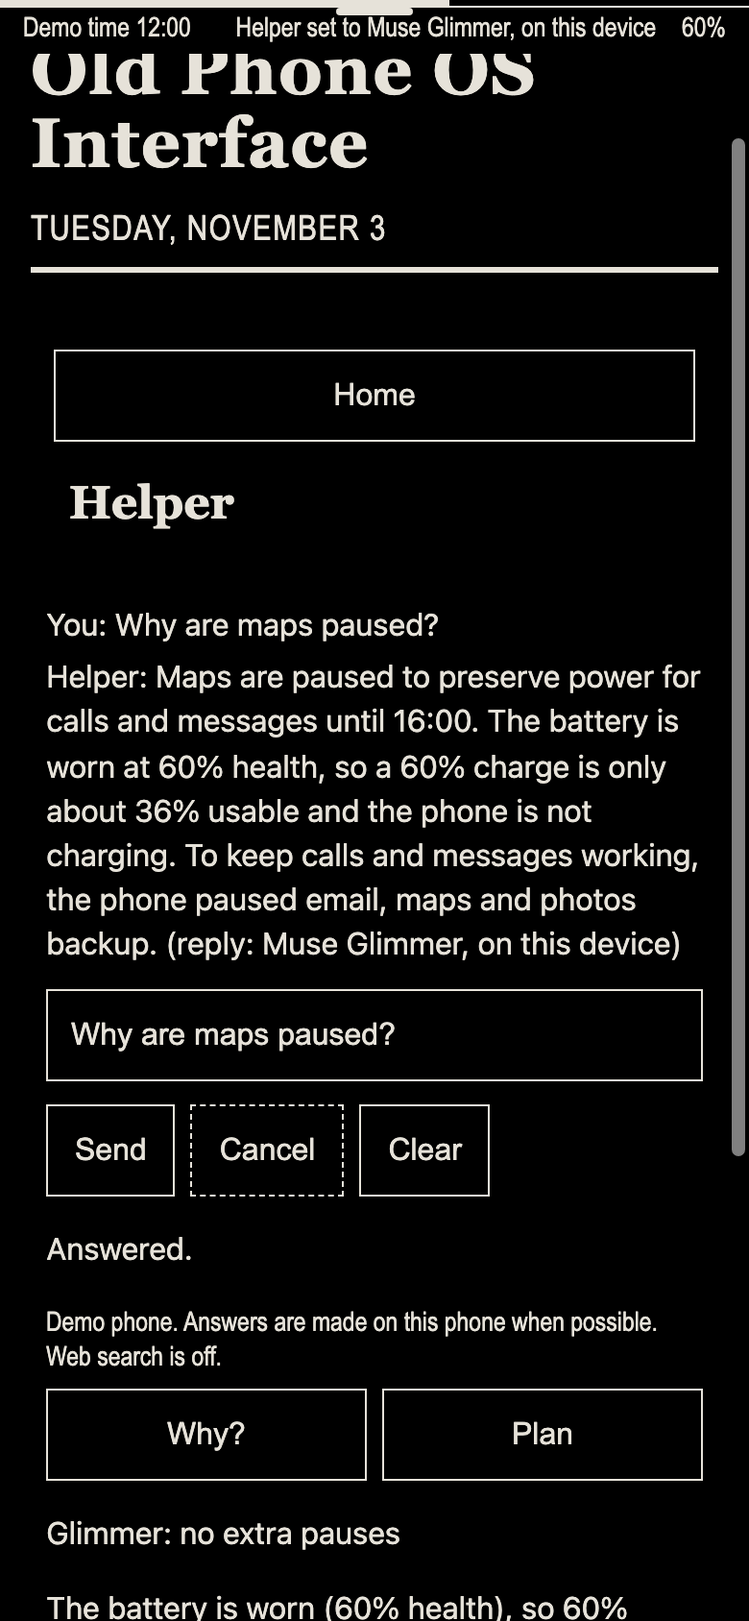
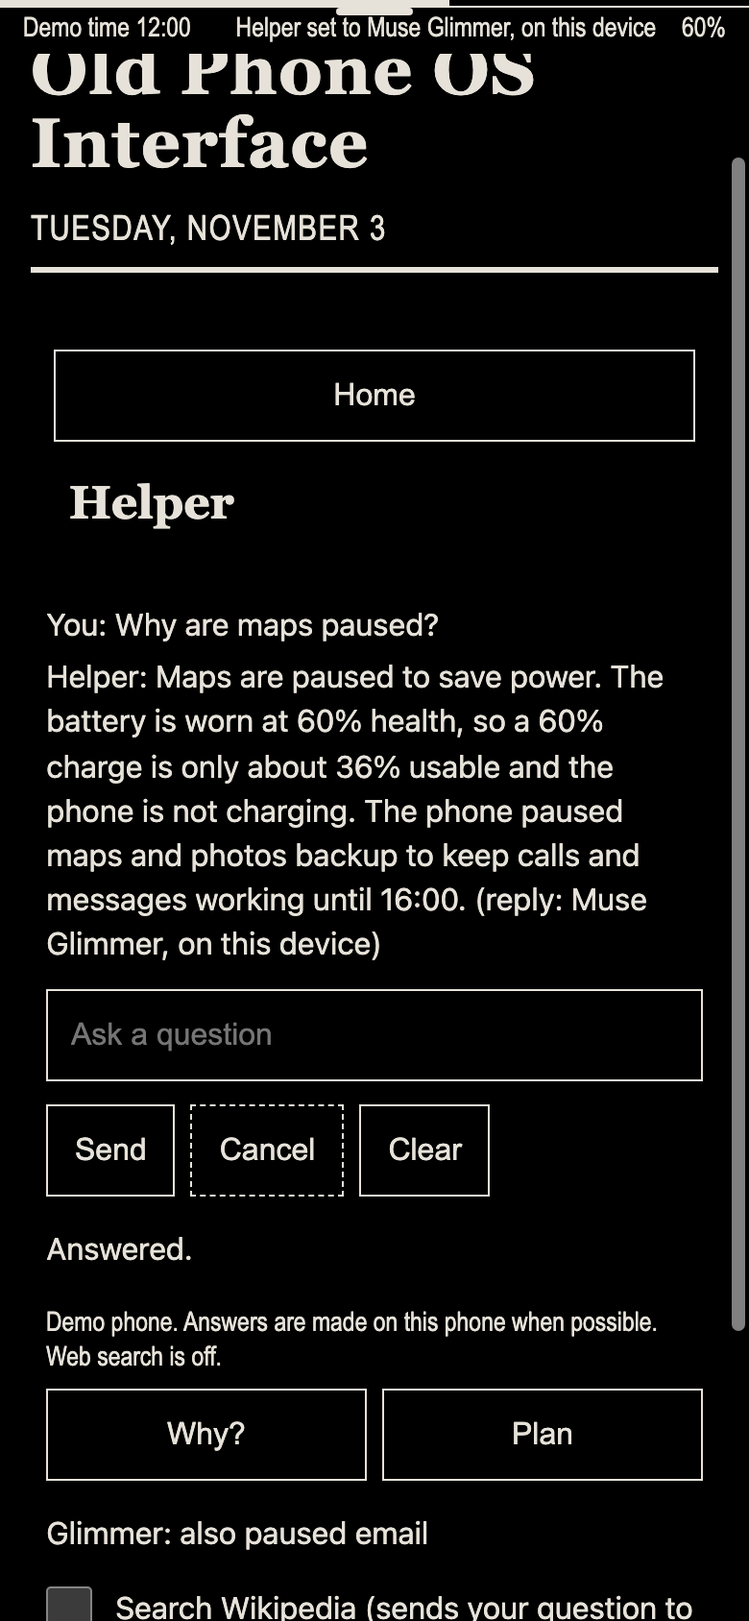
Refresh screenshots and Glimmer timings from the final build
Real captures with Muse Glimmer 30B on the merged code replace the November 3 morning captures, and the README states the newly measured Ask and Why? results. A documentation review also corrects stale statements across the docs.

Provenance: docs-20261103

diff --git a/src/opos/notices.py b/src/opos/notices.py
@@ -59,7 +59,7 @@ THIRD_PARTY = (
     "Python 3 standard library (PSF License); no other Python packages are used",
     "Chromium (BSD-3-Clause and others), shows the phone screen",
     "cage (MIT), the kiosk session",
-    "ModemManager (GPL-2.0-or-later), calls and messages",
+    "ModemManager (GPL-2.0-or-later), packaged for later modem use",
     "NetworkManager (GPL-2.0-or-later)",
     "polkit (LGPL-2.0-or-later) and D-Bus (AFL-2.1 or GPL-2.0-or-later)",
     "OpenRC (BSD-2-Clause) and psmisc (GPL-2.0-or-later)",
@@ -87,7 +87,7 @@ RESTORE_STOCK = "[restore guide: unpublished]"
 
 PRIVACY = (
     "Old Phone OS Interface sends no telemetry or analytics.",
-    "The phone screen and setup pages are served only on the phone's own loopback address, not to the network.",
+    "The phone and setup pages are loopback-only; the public demo server listens on the network.",
     "By default the Helper uses its built-in rules and programs on this phone only.",
     "Old Phone OS Interface's own code sends nothing off the phone unless you opt in: ticking Search Wikipedia for a question, pointing the Helper at a computer you own on your private network, turning on the paid cloud option with your own key, or choosing coding tools to install during setup.",
     "postmarketOS, Chromium and other system software may use the network on their own; that is outside Old Phone OS Interface's control.",

diff --git a/tests/test_ux_u023_docs.py b/tests/test_ux_u023_docs.py
@@ -18,7 +18,7 @@ class TestDuoHelperDocs(unittest.TestCase):
         self.assertLess(health_pos, new_pos)
         self.assertLess(new_pos, push_pos)
         body = text[new_pos + len(new_heading):push_pos].strip()
-        expected = "“The helper starts hidden each time OPOS starts. Open the OPOS page with /?demo=1 in the phone’s browser to show the demo controls. Tap Show helper to show Why?, Plan and Ask; tap Hide helper to hide them. While the helper is hidden, these actions do not contact a model. An answer from the model on your computer takes about 30 to 70 seconds; Cancel stops waiting.”"
+        expected = '“The helper starts hidden each time OPOS starts. Open the OPOS page with /?demo=1 in the phone’s browser to show the demo controls. Tap Show helper to show Why?, Plan and Ask; tap Hide helper to hide them. While the helper is hidden, these actions do not contact a model. Cancel stops waiting.”\n\nFor the measured desktop response times, see the [README capture table](../README.md#muse-glimmer-answering). These are not on-phone measurements.'
         self.assertEqual(body, expected)
         dot = chr(46)
         back = chr(92)

diff --git a/tests/test_pmos_easy_docs.py b/tests/test_pmos_easy_docs.py
@@ -9,7 +9,10 @@ class TestEasyDocs(unittest.TestCase):
         n = [x for x in self.text.splitlines() if x.strip()]
         self.assertEqual(n[:2], ["<!-- SPDX-License-Identifier: GPL-3.0-or-later -->", "# Easy setup on postmarketOS"])
     def test_reboot_warning(self):
-        self.assertIn("## Reboot warning\n\nthe phone will reboot several times during setup\n\n", self.text)
+        script = (Path(__file__).resolve().parents[1] / "packaging/pmos/easy/confirm-reboot.sh").read_text()
+        warning = "WARNING: the phone will reboot several times during setup. Do not unplug it or press buttons until it says Done."
+        self.assertIn(warning, script)  # the doc quotes what the script prints
+        self.assertIn("## Reboot warning\n\n> " + warning + "\n\n", self.text)
         self.assertIn("`confirm-reboot.sh` prints the warning above.", self.text)
         self.assertIn("do not implement or verify a multi-reboot setup sequence", self.text)
         self.assertIn("Do not unplug the phone during setup.", self.text)

diff --git a/README.md b/README.md
@@ -20,12 +20,12 @@ Demo walkthrough:
 1. Open `http://127.0.0.1:8765/?demo=1` for simulator controls.
 2. The demo starts at 60% battery with 60% battery health, so about 36% is usable. OPOS calls a battery worn below 80% health, so this one is worn, but its worn-battery reserve stays off: the reserve engages only below 50% health, and the demo cannot change health (the reserve is shown in the [simulations](#simulation-results)). To last until the demo's 16:00 goal it pauses maps and photos backup; calls, messages and email stay on, and with the helper shown, Muse Glimmer's background advisor may pause email too.
 3. Tap the thin bar at the top to open battery details and click Start simulation to watch it drain.
-4. Click Show helper and try Why?, Plan or type a question such as "Why are maps paused?" and Ask. Muse Glimmer uses the phone's facts when it replies; in the captures below, Ask received Glimmer replies while both Why? attempts reached the helper deadline and fell back to the rules. With no model running, Why answers from the rules, Plan keeps a fixed order and Ask says no model is running.
+4. Click Show helper and try Why?, Plan or type a question such as "Why are maps paused?" and Ask. Muse Glimmer uses the phone's facts when it replies; in the final-tree captures below, all four Ask requests and all four Why? requests received Glimmer replies within the 115-second helper deadline. With no model running, Why answers from the rules, Plan keeps a fixed order and Ask says no model is running.
 5. Drag the Battery slider below about 25% (under 15% usable). Ask rests to save power, and calls and messages still work.
 
 <p>
   <img src="docs/assets/screen-lock.png" width="240" alt="Desktop simulation lock screen at 12:00 with 60% battery, a worn-battery notice saying 2 tasks paused for 4 PM, and Unlock and Call buttons.">
-  <img src="docs/assets/screen-home.png" width="240" alt="Desktop simulation home screen with Calls, Messages and Email, and maps and photos backup paused to save power.">
+  <img src="docs/assets/screen-home.png" width="240" alt="Desktop simulation Home with Phone, Messages, Helper, Settings and All apps; maps and photos backup are paused to save power.">
   <img src="docs/assets/screen-shade.png" width="240" alt="Desktop simulation battery panel at 60% with maps and photos backup paused; both expanded reasons say battery rules paused them to help the battery last until 4 PM.">
 </p>
 
@@ -35,20 +35,34 @@ Screenshots of the desktop simulation (battery, calls and messages are simulated
 
 On November 3, 2026, the OPOS desktop demo (`?demo=1`) ran on Louis's MacBook Pro with LM Studio serving `muse-glimmer-30b` (Meta Muse Glimmer 30B). The simulation was at noon, with 60% battery at 60% health, a 16:00 goal and the helper shown. On-phone inference is untested.
 
-Asked "Why are maps paused?", Muse Glimmer answered in **56.7 seconds in the dark capture** and **42.4 seconds in the light capture**. The screen labels each answer "reply: Muse Glimmer, on this device"; here, "this device" is the MacBook Pro running the desktop demo.
+Asked "Why are maps paused?", Muse Glimmer answered in **51.699 and 53.077 seconds in dark appearance** and **42.914 and 44.782 seconds in light appearance**. These are four individual measurements from activating the UI control to the displayed reply, including request and rendering time; they are not pure inference times or on-phone measurements. The screen labels each answer "reply: Muse Glimmer, on this device"; here, "this device" is the owner's MacBook Pro running the desktop demo.
 
-The dark capture's answer, verbatim:
+The first dark capture's answer, verbatim:
 
-> Maps are paused to preserve power for calls and messages until 16:00. The battery is worn at 60% health, so a 60% charge is only about 36% usable and the phone is not charging. To keep calls and messages working, the phone paused email, maps and photos backup.
+> Maps are paused to save power. The battery is worn at 60% health, so a 60% charge is only about 36% usable and the phone is not charging. The phone paused maps and photos backup to keep calls and messages working until 16:00.
 
-Glimmer's background advisor had itself paused email; the captured battery state records its reason as "Muse Glimmer paused this to save power for calls and messages." The answer reflects that captured state. The dark screenshot does not show the battery panel, and its helper status line still reads "Glimmer: no extra pauses" despite that state; the light screenshot reads "Glimmer: suggested extra pauses."
+The first dark question was sent while maps and photos backup were paused. By the time the reply appeared, Glimmer's background advisor had also paused email. The visible status line in both selected Ask screenshots reads "Glimmer: also paused email" and matches the captured current task state; the answer describes the facts supplied when the question was sent.
 
 <picture>
   <source media="(prefers-color-scheme: dark)" srcset="docs/assets/glimmer-ask-dark.png">
-  <img src="docs/assets/glimmer-ask.png" alt="OPOS desktop simulation showing Muse Glimmer's answer to Why are maps paused?, with 60% battery, a 16:00 goal and the reply label Muse Glimmer, on this device.">
+  <img src="docs/assets/glimmer-ask.png" alt="OPOS desktop simulation showing a Muse Glimmer reply to Why are maps paused?, labeled reply: Muse Glimmer, on this device, with Glimmer: also paused email.">
 </picture>
 
-These are real Ask captures in dark and light appearance. The **Why? button fell back to the rules answer both times** because it reached OPOS's 115-second helper deadline before Glimmer returned visible text. A fix is in progress.
+The revised **Why? button returned Glimmer answers in 66.549 and 60.696 seconds in dark appearance, and 63.853 and 78.651 seconds in light appearance**. All four completed before OPOS's 115-second helper deadline; none used the rules fallback. These measurements replace the earlier pre-fix Why? deadline observations for this final source.
+
+<picture>
+  <source media="(prefers-color-scheme: dark)" srcset="docs/assets/glimmer-why-dark.png">
+  <img src="docs/assets/glimmer-why.png" alt="The real Why? reply in the OPOS desktop simulation, labeled Muse Glimmer, on this device, explaining the paused tasks.">
+</picture>
+
+| Appearance | Action | Run 1, seconds | Run 2, seconds | Result |
+|---|---|---:|---:|---|
+| Dark | Ask | 51.699 | 53.077 | Muse Glimmer; no fallback |
+| Dark | Why? | 66.549 | 60.696 | Muse Glimmer; no fallback |
+| Light | Ask | 42.914 | 44.782 | Muse Glimmer; no fallback |
+| Light | Why? | 63.853 | 78.651 | Muse Glimmer; no fallback |
+
+The screenshots and demo video use the first chronological run; both runs of each action and appearance are reported. The captured runtime is the staged Git tree `e753c23bba4f3898a09ae4e1f6f0137e255fde68` (a tree object, not a commit). Full replies, timestamps, task states and unedited PNGs are retained in the owner's `final-capture/capture.json` and `capture-report.md` handoff. Battery, calls and messages remain simulated; Glimmer runs on the owner's computer.
 
 ## Try it online
 
@@ -82,7 +96,7 @@ Glimmer may only pause additional non-essential tasks. It cannot allow anything 
 | Route | Purpose | Requirements and scope |
 |---|---|---|
 | Rules floor | Deterministic decisions and fallback text | No model or provider account. Simulations are not measured battery savings. |
-| Muse Glimmer 30B | Routing advice, Why, Plan and Ask | Your own server serving the model id `muse-glimmer-30b` (for example LM Studio) at `http://127.0.0.1:1234/v1`. If port 1234 is taken, set `OPOS_GLIMMER_URL=http://127.0.0.1:<port>/v1` to point OPOS at LM Studio's actual port. On a 64 GB M5 Pro MacBook Pro running Muse Glimmer 30B (Q4_K_M) in LM Studio, answers took about 30-60 seconds in November 2026 tests, most of it hidden reasoning. |
+| Muse Glimmer 30B | Routing advice, Why, Plan and Ask | Your own server serving the model id `muse-glimmer-30b` (for example LM Studio) at `http://127.0.0.1:1234/v1`. If port 1234 is taken, set `OPOS_GLIMMER_URL=http://127.0.0.1:<port>/v1` to point OPOS at LM Studio's actual port. The November 3 final-tree Ask and Why? UI response times are reported individually in [Muse Glimmer answering](#muse-glimmer-answering); these desktop measurements do not establish phone inference speed. |
 | Llama 3.2 1B/3B | Optional phone-local answers via server at loopback port 8080 | About 1.5/4 GB free memory; phone speed is unmeasured; weights are not shipped. |
 | User-owned LAN server | Optional Glimmer endpoint selected with OPOS_LAN_URL | Private-address validation; opt-in. OPOS does not expose a server for you. |
 | Wikipedia | Optional snippets for one question | Unchecked-by-default Search Wikipedia option sends that question to Wikipedia. |
@@ -136,7 +150,7 @@ OPOS_REPO_URL=https://github.com/louiscalata/old-phone-os OPOS_REF=main sh boots
 
 ## postmarketOS packages and QEMU
 
-On November 3, 2026, an aarch64 image built from this tree booted in QEMU 9.1.2 (TCG, OpenRC) to the OPOS lock screen about 70 seconds after start, and Unlock reached Home. It used the packaged tinydm Pixman renderer hook without a manual renderer override; the same image without the hook stayed on the console with a GLES2/GBM failure. See [docs/pmos.md](docs/pmos.md) for the recorded run, toolchain and local-source staging.
+As recorded in [docs/pmos.md](docs/pmos.md), on November 3, 2026 a postmarketOS aarch64 image booted in QEMU 9.1.2 (TCG, OpenRC) to the OPOS lock screen, and Unlock reached Home. It used the packaged tinydm Pixman renderer hook without a manual renderer override; the same image without the hook stayed on the console with a GLES2/GBM failure. See [docs/pmos.md](docs/pmos.md) for the recorded run, toolchain and local-source staging.
 
 This later virtual-machine boot result does not close the November 1 integrator report's **integration NOT READY** status: integration acceptance remains outstanding. The earlier private-baseline QEMU run described in [docs/provenance.md](docs/provenance.md#validation-scope) used a manual, QA-only Pixman renderer override. The November 3 image had no model server or route to one; on-phone inference and physical-phone behavior remain untested for this source.
 
@@ -159,7 +173,7 @@ Optional repository checks use `python3 guard/check.py`; see [guard/RULES.md](gu
 
 **Focused package inputs; performance gains remain unmeasured.** See [docs/lean.md](docs/lean.md).
 
-Demo is simulation only, and so is the postmarketOS kiosk: both use the simulated battery and modem. No physical phone testing is claimed and native on-phone inference is not tested. On a 64 GB M5 Pro MacBook Pro running Muse Glimmer 30B (Q4_K_M) in LM Studio, answers took about 30-60 seconds in November 2026 tests, most of it hidden reasoning. Ask rests when the mode is Critical and less than 15% of the charge is usable. Spark Open is off by default and requires user credentials. Wikipedia search is opt-in.
+Demo is simulation only, and so is the postmarketOS kiosk: both use the simulated battery and modem. No physical phone testing is claimed and native on-phone inference is not tested. The November 3 final-tree Ask and Why? UI response times are reported individually in [Muse Glimmer answering](#muse-glimmer-answering); these desktop measurements do not establish phone inference speed. Ask rests when the mode is Critical and less than 15% of the charge is usable. Spark Open is off by default and requires user credentials. Wikipedia search is opt-in.
 
 The [Windows installer remains untested at runtime](ROADMAP.md#simulated-or-not-yet-verified), and [Surface Duo work is paused](docs/duo-usb-install.md); those paths are documented separately.
 

diff --git a/docs/public-demo.md b/docs/public-demo.md
@@ -10,7 +10,8 @@ HTTP server's reverse-DNS startup lookup.
 
 Hackathon prototype. This public demo simulates the battery, calls and messages;
 it is not a phone operating system and has not run on a physical phone.
-Try the live demo at https://opos-demo-production.up.railway.app.
+The public demo is live at https://opos-demo-production.up.railway.app.
+Muse Glimmer is off there; Why, Plan and Ask use deterministic battery rules.
 
 ## Run locally
 
@@ -21,10 +22,11 @@ export PYTHONPATH=src
 OPOS_PUBLIC_HOSTS=localhost:8080 PORT=8080 python3 -m opos.public_demo
 ```
 
-Open `http://localhost:8080/?demo=1`. Unlock, change the battery slider, then
-pull down the top battery bar. At the initial 60%, Undo on maps restores a soft
-pause; low-battery and heat floors still protect calls and messages. Why, Plan
-and Ask answer from the current rules and explicitly identify the public mode.
+Open `http://localhost:8080/?demo=1` (it starts unlocked). Change the battery
+slider, then open the top battery bar. At the initial 60%, Undo on maps turns
+the soft-paused task back on; low-battery and heat floors still protect calls
+and messages. Why, Plan and Ask answer from the current rules and explicitly
+identify the public mode.
 Settings such as theme are browser preferences, never host preference files.
 
 ## Railway configuration
@@ -40,10 +42,9 @@ Railway's [current builder reference](https://docs.railway.com/config-as-code/re
 lists Railpack and Dockerfile for new services. It also marks railway.json as a
 legacy configuration mechanism: if the service uses the newer infrastructure
 flow, set the same start command, one replica and `/healthz` health-check path
-in that service's configuration. These files have not been built or deployed
-on Railway during this task.
+in that service's configuration.
 
-Set these service variables before a later, separately authorized deployment:
+Configure the service variables as follows:
 
 ```text
 OPOS_PUBLIC_HOSTS=opos-demo-production.up.railway.app,healthcheck.railway.app
@@ -123,8 +124,9 @@ against distributed traffic. Platform-level traffic controls remain useful.
 
 ## What the public handler can do
 
-Only `GET /`, `GET /?demo=1`, `GET /api/state`, `GET /healthz` and `POST /api`
-are routed. The API action allowlist covers battery/temperature, simulated
+Only `GET /`, `GET /?demo=1`, `GET /api/state`, `GET /healthz`, `GET /favicon.ico`
+and `POST /api` are routed; HEAD follows the GET routes without a response body.
+The API action allowlist covers battery/temperature, simulated
 calls/messages, open thread, helper visibility, simulation ticks, charging,
 goal, Undo, foreground task and the three deterministic helper answers.
 Every other route, method or action returns 404 after the Host/Origin and
@@ -152,10 +154,11 @@ do not expand its model/network host allowlist.
 ## Verification
 
 ```sh
-mkdir -p /private/tmp/opos-demo-tests
-TMPDIR=/private/tmp/opos-demo-tests PYTHONDONTWRITEBYTECODE=1 PYTHONPATH=src python3 -B -m unittest tests.test_public_demo tests.test_web tests.test_web_security tests.test_demo_day tests.test_lock_story tests.test_panel_decision
-TMPDIR=/private/tmp/opos-demo-tests PYTHONDONTWRITEBYTECODE=1 PYTHONPATH=src python3 -B -m unittest discover -s tests -t .
-python3 guard/check.py
+TMPDIR=$(mktemp -d)
+export TMPDIR
+PYTHONDONTWRITEBYTECODE=1 PYTHONPATH=src python3 -B -m unittest tests.test_public_demo tests.test_web tests.test_web_security tests.test_demo_day tests.test_lock_story tests.test_panel_decision
+PYTHONDONTWRITEBYTECODE=1 PYTHONPATH=src python3 -B -m unittest discover -s tests -t .
+python3 -B guard/check.py
 ```
 
 `PublicBoundary` uses real TCP sockets. `PublicProtocolWithoutSockets` repeats
@@ -165,7 +168,7 @@ connection admission or browser behavior. The outbound-denial test patches
 urllib/http.client entry points and model/host functions to fail if called,
 then exercises every allowed action with hostile model configuration present.
 
-### Working-copy verification, 3 November 2026
+### Earlier working-copy verification, 3 November 2026
 
 The earlier demo implementation's focused run passed **60 tests**, covering the public handler through
 an in-memory transport, the client script, source-archive consistency, original
@@ -189,10 +192,12 @@ The source/deploy model-and-host scan passed (104 files, zero errors).
 `python3 guard/check.py` reported one problem: the existing base commit
 `4aa9b7c3` has no Provenance trailer logged with a Meta model in
 `docs/provenance.md`. No provenance was invented and no history was changed.
-Native socket serving, browser rendering, the Python 3.12 container build and
-Railway deployment still need verification in an environment that supports them.
+These restricted-workspace runs did not verify native socket serving, browser
+rendering or the Python 3.12 container build. The live Railway demo is a separate
+deployment result; it does not turn these earlier test failures into passes or
+establish a fresh container build from the final tree.
 
-### Security follow-up, 3 November 2026
+### Earlier security follow-up, 3 November 2026
 
 Before the fixes, the two new regression methods produced three assertion
 failures through the in-memory HTTP transport: a forged left-most forwarding
@@ -204,7 +209,7 @@ it does not claim an actual browser run.
 The requested run of `tests.test_public_demo`, `tests.test_web` and
 `tests.test_web_security` ran **103 tests: 40 passed, 63 errored**. Every error
 was `PermissionError: [Errno 1] Operation not permitted` at `socket.bind`.
-These native socket tests remain blocked, not passed or silently skipped.
+These native socket tests were blocked in that run, not passed or silently skipped.
 The separate `PublicProtocolWithoutSockets`, `PublicBindWithoutDNS` and
 `PublicClientScript` run passed **24 tests**.
 
@@ -213,4 +218,4 @@ has no Provenance trailer logged with a Meta model in `docs/provenance.md`.
 The new `publicdemo-20261103` row records the demo's declared Codex authorship
 and disabled public model routes; it does not repair that historical trailer.
 The guard also reported that the overlap check was skipped because `guard.json`
-is absent. See [.pr/public-demo.md](../.pr/public-demo.md) for commands and logs.
+is absent.

diff --git a/docs/provenance.md b/docs/provenance.md
@@ -16,9 +16,9 @@ Detailed historical prompts and outputs are preserved in a private evidence ledg
 | panelfix-20261103 | The second follow-up commit, November 3, 2026: fixes for findings from a senior review panel of the public repository (Claude Opus 5.5, Codex gpt-6.1-sol and Grok 4.7). One final decision now decides what is paused (owner Undo and in-use apply before the heat, critical-battery and worn-battery floors), the goal budget is shared across tasks, the screens and the simulated drain read the same decision, installed services keep the model-route settings, the optional AI-tools installer checks a pinned digest, Why and Ask send questions to the Muse Glimmer 30B route or another local route only when it is configured or verified, and the docs, pyproject.toml and a CI workflow were added or corrected. Written by Claude Opus 5.5 agents; Codex gpt-6-astra checked the last decision-lane items; Grok 4.7 reviewed the merged change; Claude Opus 5.5 merged and checked it. No Meta model wrote code in this commit. |
 | ci-20261103 | Written by Codex gpt-6-astra, with a bounded read-only review by Codex gpt-6-luna. Linux CI portability fixes keep the Meta Muse Glimmer helper tests running on Linux CI: deterministic helper fixtures, isolated installer service probes, firewall output and permission checks, current UI assertions, browser launch diagnostics, explicit test dependencies and full checkout history. No Meta model wrote code in this change. Hosted Linux verification remains pending. |
 | publicdemo-20261103 | Public simulation-only demo written by Codex gpt-6-astra. It serves the same phone UI; Muse Glimmer 30B and every other model route are disabled in public mode. A follow-up by Claude Opus 5.5 regenerates the pmOS runtime source digest. |
-| helper-glimmer-capture-20261103 | Written by Codex gpt-6-astra for the Meta Muse Glimmer 30B helper path: factual pause/status credit, state refresh while the demo is stopped, a smaller grounded Why? prompt with Ask's token budget, and fake-route regressions preserving the 115-second deadline and rejection of cut-off reasoning. Based on the November 3 end-to-end capture of public main bd0e465. No Meta model wrote this fix; revised-source hardware latency has not been measured. A follow-up by Claude Opus 5.5 updates the two boot-load tests for fetchState() and regenerates the pmOS runtime source digest. |
+| helper-glimmer-capture-20261103 | Written by Codex gpt-6-astra for the Meta Muse Glimmer 30B helper path: factual pause/status credit, state refresh while the demo is stopped, a smaller grounded Why? prompt with Ask's token budget, and fake-route regressions preserving the 115-second deadline and rejection of cut-off reasoning. Based on the November 3 end-to-end capture of public main bd0e465. No Meta model wrote this fix. Revised-source UI response times were unmeasured at that stage; the final desktop recapture is recorded in docs-20261103 below. A follow-up by Claude Opus 5.5 updates the two boot-load tests for fetchState() and regenerates the pmOS runtime source digest. |
 | qa-20261103 | Written by Codex gpt-6-astra from an outside QA pass, with regression assertion updates by Codex gpt-6-luna. Fixes public demo QA findings in the phone UI that the Meta Muse Glimmer 30B helper uses, with regression tests. No Meta model wrote this change. |
-| docs-20261103 | README edits written by Codex gpt-6-astra from an external review, with capture integration by Codex. The README vignette was written by Meta Muse Spark 1.3 (via Gumloop) and is reproduced verbatim. The quoted helper answer was written by Meta Muse Glimmer 30B, served as `muse-glimmer-30b` by LM Studio on Louis's MacBook Pro in the desktop simulation. Real November 3 Ask captures: 56.7 s (dark, quoted verbatim) and 42.4 s (light), labeled "reply: Muse Glimmer, on this device". Glimmer's background advisor had paused email. Both Why? attempts fell back to the rules answer at OPOS's 115 s helper deadline before visible Glimmer text; a fix is in progress. On-phone inference is untested. |
+| docs-20261103 | README edits written by Codex gpt-6-astra from an external review, with capture integration and final-tree recapture by Codex. The README vignette was written by Meta Muse Spark 1.3 (via Gumloop) and is reproduced verbatim. The quoted helper answer was written by Meta Muse Glimmer 30B, served as `muse-glimmer-30b` by LM Studio on the owner's Mac in the desktop simulation. Final November 3 Ask UI response times: 51.699 and 53.077 s (dark), 42.914 and 44.782 s (light). Why? returned Glimmer answers in 66.549 and 60.696 s (dark), 63.853 and 78.651 s (light), all inside the 115 s helper deadline; none fell back. Run 1 of each action/theme supplies the screenshots; all runs are retained. Current status: "Glimmer: also paused email". The first dark Ask reflects question-time facts before that additional pause. Input tree `e753c23bba4f3898a09ae4e1f6f0137e255fde68` is a tree object, not a commit. On-phone inference is untested. |
 
 The snapshot preserves existing copyright and license notices, editable application/web sources, installation/deployment/build scripts and tests. Development orchestration archives are not required runtime or build inputs and remain private.
 

diff --git a/ROADMAP.md b/ROADMAP.md
@@ -9,8 +9,12 @@ and what comes next. Plans are intentions, not promises.
 - Battery governor: Normal, Saver and Critical modes from battery level, battery health,
   temperature and a daily goal; calls, messages and alarms stay on in every mode.
 - Helper with Meta Muse Glimmer 30B on your own computer: supports Why?, Plan and Ask using plain
-  facts about the phone. Captured Ask replies succeeded; both captured Why? attempts fell back to
-  rules at 115 s. A background advisor may pause extra non-essential tasks, never fewer.
+  facts about the phone. In the final November 3 desktop capture, all four Ask and all four Why?
+  requests returned Muse Glimmer within 115 s, with no fallback. Ask took 51.699/53.077 s in dark
+  appearance and 42.914/44.782 s in light; Why? took 66.549/60.696 s in dark and 63.853/78.651 s
+  in light. These are UI response times, not pure inference or on-phone measurements. See the
+  [README capture table](README.md#muse-glimmer-answering). A background advisor may pause extra
+  non-essential tasks, never fewer.
 - Offline floor: every decision and fallback answer works with no model running.
 - Desktop demo with a simulated battery, calls and texts (`?demo=1` simulator controls).
 - Setup wizard, per-user installer for macOS and Linux, and postmarketOS packages
@@ -24,10 +28,6 @@ and what comes next. Plans are intentions, not promises.
 
 ## Simulated or not yet verified
 
-- The November 3 Glimmer capture follow-up reduces the Why? prompt and keeps helper pause
-  attribution current while the demo is stopped. Fake-route regressions cover the changes;
-  Why? latency on the revised source still needs a new LM Studio capture. See
-  [.pr/helper-glimmer-capture.md](.pr/helper-glimmer-capture.md).
 - The desktop demo and the postmarketOS kiosk both simulate the battery, calls and texts
   (`DrainSim` and `ScreenModem` in `src/opos/web.py`). The ModemManager adapter
   (`src/opos/mm_modem.py`) is not connected to them, and the sysfs battery reader
@@ -40,27 +40,25 @@ and what comes next. Plans are intentions, not promises.
 
 ## Public browser demo
 
+The public demo is live at [opos-demo-production.up.railway.app](https://opos-demo-production.up.railway.app).
 The separate `opos.public_demo` entry point wraps the existing phone page in a
-Jaryo landing and isolates each visitor in bounded, expiring memory. Public
-helpers use only battery rules; setup, model routes and host operations are
-unreachable. Railway configuration and [operating notes](docs/public-demo.md)
-are in this working copy. This work has not been committed, pushed or deployed.
-The README URL remains a placeholder. Native socket/browser and Railway
-verification must be recorded separately from handler-level checks.
-The security follow-up uses the trusted proxy's right-most forwarded address
-for rate limits and preserves sessions on cross-site landing visits. Both
-regressions pass through the in-memory HTTP transport; native socket tests
-remain blocked by workspace permissions. See [.pr/public-demo.md](.pr/public-demo.md)
-for the current test and guard results.
+Jaryo landing and isolates each visitor in bounded, expiring memory. Muse Glimmer
+and every other model route are off there: public helpers use only battery rules.
+Setup and host operations are unreachable. Railway configuration and
+[operating notes](docs/public-demo.md) are included in this tree. This is a browser
+simulation; the live deployment does not establish physical-phone use.
 
-The outside-QA follow-up `qa-20261103` fixes the public Settings layout, battery
-history, app status, rules-helper answers, simulator controls and link-checker
-responses. See [.pr/qa-demo.md](.pr/qa-demo.md) for the unstaged changes, regression
-results and remaining browser review; this does not establish physical-phone use.
+The public server uses the trusted proxy's right-most forwarded address for rate
+limits and preserves sessions on cross-site landing visits. The final source also
+includes the public Settings layout, battery history, app status, rules-helper,
+simulator-control and link-checker fixes. Handler-level checks, native browser
+checks and deployment observations remain separate evidence.
 
 ## Next
 
-Linux CI portability fixes are under local verification; hosted Python 3.11/3.13 results are still pending. See [.pr/ci-linux.md](.pr/ci-linux.md) for the failure analysis and verification limits.
+Linux CI portability fixes were verified on a Debian VM. Hosted CI results for
+the Python 3.11/3.13 matrix in `.github/workflows/tests.yml` are still pending;
+the Debian verification does not establish a hosted CI pass.
 
 1. **A real phone.** Boot the postmarketOS image on a supported device, run setup, and record
    battery life against the stock system with the same daily routine.

diff --git a/NEW-WORK.md b/NEW-WORK.md
@@ -7,7 +7,7 @@ The application, setup flow, web interface, rule router, model clients, installa
 
 ## Contributions
 
-Recorded source contributions include Meta Muse Glimmer, Muse Spark, Muse Spark Open and Muse Wonder, together with implementation and repairs by Codex and Claude and hand-written Grok Bot changes. Codex integrated and verified the setup, UI, package-state and public-export corrections through November 2. On November 3 Claude coordinated the final fixes and reviews, and Muse Glimmer drafted the current README. The project does not claim that Meta models wrote every line. The submitter is responsible for the submission.
+Recorded source contributions include Meta Muse Glimmer, Muse Spark, Muse Spark Open and Muse Wonder, together with implementation and repairs by Codex and Claude and hand-written Grok Bot changes. Codex integrated and verified the setup, UI, package-state and public-export corrections through November 2. On November 3 Claude coordinated the final fixes and reviews. Meta Muse Spark 1.3 wrote the current README vignette, reproduced verbatim; Muse Glimmer wrote the quoted helper answer, and Codex edited the README and integrated the final capture. The project does not claim that Meta models wrote every line. The submitter is responsible for the submission.
 
 Claude's recorded implementation/disclosure contributions are distinct from a later independent UI review whose separate proposal was not adopted merely to create model-written code. Jev pre/post analysis covered one historical Spark task and the November 3 review, drafting and fix tasks; the November 1-2 UI, package, native QA and export checks are not represented as Jev-supervised. See [WORK-BY-MODEL.md](WORK-BY-MODEL.md) and the concise [public provenance](docs/provenance.md).
 
@@ -15,6 +15,6 @@ Claude's recorded implementation/disclosure contributions are distinct from a la
 
 Source authorship and runtime routing are separate. The runtime clients target Meta models, with a deterministic offline floor. Development orchestration tools are not runtime dependencies. An endpoint or model-name label does not independently attest the weights a server runs.
 
-Accepted private-baseline evidence includes actual desktop UI checks, one desktop Glimmer response, package-state checks and a postmarketOS QEMU kiosk using a documented QA-only software renderer. On November 3, an aarch64 image built from this tree reached the lock screen and Home in postmarketOS QEMU with the packaged tinydm renderer hook and no manual override; later changes have not been re-booted. The corrected public tree needs its own verification; earlier private counts and captures are not silently relabeled as public-tree acceptance. Native model inference, physical modem behavior and Windows runtime acceptance remain unverified.
+Accepted private-baseline evidence includes actual desktop UI checks, a desktop Glimmer response, package-state checks and a postmarketOS QEMU kiosk using a documented QA-only software renderer. The separate final November 3 desktop capture records eight UI response times: all four Ask and all four Why? requests returned Muse Glimmer within 115 s, with no fallback. See the [README capture table](README.md#muse-glimmer-answering) and [public provenance](docs/provenance.md) for the timings and captured source identity. These are desktop simulation results, not phone measurements. On November 3, an aarch64 image built from this tree reached the lock screen and Home in postmarketOS QEMU with the packaged tinydm renderer hook and no manual override; later changes have not been re-booted. Each later source change needs its own affected checks; earlier private counts and captures are not silently relabeled as public-tree acceptance. On-phone model inference, physical modem behavior and Windows runtime acceptance remain unverified.
 
 Detailed historical prompts and outputs are preserved privately and have not been rewritten. This source snapshot omits those private records while retaining the editable runtime, build, installation, deployment, test, guard and license sources needed to inspect and modify OPOS.

diff --git a/docs/notices-verification.md b/docs/notices-verification.md
@@ -8,7 +8,7 @@
 | Claim | Source evidence | Scope |
 |---|---|---|
 | Old Phone OS Interface sends no telemetry or analytics. | Network clients are explicit in `src/opos/muse.py`, `src/opos/assist.py`, `src/opos/setup/selftest.py`, `src/opos/setup/apply.py` and `src/opos/aitools/installer.py`. `src/opos/aitools/sessions.py` uses local stderr diagnostics; `src/opos/notices.py` imports no network library. | Static code inspection; not a packet capture of third-party programs. |
-| The phone screen and setup pages are served only on the phone's own loopback address, not to the network. | `src/opos/secure.py` validates bind addresses; constructors in `src/opos/web.py` and `src/opos/setup/server.py` apply it. | The OPOS HTTP services, not arbitrary system software. |
+| The phone and setup pages are loopback-only; the public demo server listens on the network. | `src/opos/secure.py` validates loopback bind addresses; constructors in `src/opos/web.py` and `src/opos/setup/server.py` apply it. `src/opos/public_demo.py` uses its own server constructor with a `0.0.0.0` bind and exact allowed-host checks. | The desktop/kiosk and setup services are loopback-only; the separate public simulation is network-accessible. This does not describe arbitrary system software. |
 | By default the Helper uses its built-in rules and programs on this phone only. | Default route construction in `src/opos/muse.py` and `src/opos/assist.py` uses loopback; `src/opos/router.py` is deterministic. LAN and cloud require explicit configuration. | A configured remote deployment is a separate opt-in. |
 | Old Phone OS Interface's own code sends nothing off the phone unless you opt in: ticking Search Wikipedia for a question, pointing the Helper at a computer you own on your private network, turning on the paid cloud option with your own key, or choosing coding tools to install during setup. | `src/opos/assist.py` gates Wikipedia per question and validates LAN routes; `src/opos/muse.py` gates the hosted route; `src/opos/setup/config.py`, `src/opos/setup/apply.py` and `src/opos/aitools/installer.py` gate selected tool installation. | Applies to OPOS code; installed third-party tools have their own behavior. |
 | postmarketOS, Chromium and other system software may use the network on their own; that is outside Old Phone OS Interface's control. | The kiosk starts Chromium; the platform packages include independently maintained services. | No claim that a static OPOS scan controls the full operating system. |
@@ -24,7 +24,7 @@
 
 - SOURCE_URL is the plainly displayed project address `github.com/louiscalata/old-phone-os`, consistent with the prospective public repository in README. Displaying this text makes no network request. The release owner must verify the actual published destination and corresponding-source archive before distributing binaries.
 - CONTACT refers readers to the project repository without inventing an email, issue-channel configuration or promised support service.
-- RESTORE_STOCK remains unpublished because no verified stock-restore procedure is supplied. This source gives no flashing or recovery instructions.
+- RESTORE_STOCK remains unpublished because no verified stock-restore procedure is supplied. [The historical Duo notes](duo-usb-install.md) contain rootfs, recovery and sparse-image flashing instructions, and `packaging/pmos/easy/easy-install.sh --flash` calls `pmbootstrap flasher flash_rootfs`; those paths remain unverified for this corrected source and are not a verified stock-restore procedure.
 - VERSION remains synchronized with `packaging/pmos/opos/APKBUILD`; a missing generated build identity is honestly shown as unpublished. Each release should record its actual source and package identities.
 - THIRD_PARTY follows platform dependencies. `THIRD_PARTY.md` separately links model terms; no weights or inference server are bundled. A full system image needs its own exact package/license/source inventory.
 

diff --git a/docs/pmos.md b/docs/pmos.md
@@ -47,7 +47,7 @@ The packaged recipe names a release archive and its measured runtime checksum. I
 pmbootstrap qemu --image-size=2G -m 2048 --no-gl
 ```
 
-The tool's default SSH forward is loopback port 2222; use the account chosen during installation. `sh packaging/pmos/qemu-demo.sh` only prints the corresponding plan, and `--help` shows usage; it does not build, connect or flash anything.
+The tool's default SSH forward is loopback port 2222; use the account chosen during installation. `sh packaging/pmos/qemu-demo.sh` only prints the corresponding plan for `$HOME/opos-pmaports` unless `OPOS_APORTS_DIR` is set, and `--help` shows usage; it does not build, connect or flash anything.
 
 The non-GL virtual GPU fails under the default GLES2/GBM renderer, and tinydm starts the cage compositor directly, so the renderer must be chosen before cage runs: `/etc/cage-ui/opos.sh` is only sourced later by cage's own session child. The package therefore installs `/usr/share/tinydm/env-wayland.d/50-opos-renderer.sh`, which tinydm sources before it starts cage and which sets `WLR_RENDERER=pixman` unless a value is already set; a device with working accelerated drivers can set `WLR_RENDERER` explicitly. On November 3, 2026 an aarch64 QEMU image (QEMU 9.1.2, TCG, OpenRC, no manual renderer override) built from this tree booted to the OPOS lock screen about 70 seconds after start, and Unlock reached Home; the same image without this hook stayed on the console with the GLES2/GBM failure. That is a virtual-machine result, not a physical-phone or accelerated-rendering result. Do not weaken the Chromium sandbox or host protections.
 

diff --git a/docs/META.md b/docs/META.md
@@ -14,8 +14,12 @@ reasoning effort (200 tokens for the small local Llama route). The 1,600-token t
 not a separate reasoning cap or a reserved answer allowance. These are token limits,
 not latency guarantees. Why, Plan and Ask retain a 115-second shared route deadline; earlier
 routes share that time and the last route gets what remains. Empty or token-truncated replies
-are rejected. The revised Why? prompt has fake-route coverage; its hardware latency still needs
-a new capture. The helper contribution line uses actual paused-task attribution and the
+are rejected. In the final November 3 desktop capture, all four Ask and all four Why? requests
+returned Muse Glimmer with no fallback, within 115 s. Ask took 51.699/53.077 s in dark appearance
+and 42.914/44.782 s in light; Why? took 66.549/60.696 s in dark and 63.853/78.651 s in light.
+These are UI response times on the owner's computer, not pure inference times or phone-speed
+measurements; see the [README capture table](../README.md#muse-glimmer-answering).
+The helper contribution line uses actual paused-task attribution and the
 background advisor's observed status, not the configured answer route's name.
 
 Muse Glimmer and Muse Spark contributed code alongside the recorded non-Meta repairs. The use of a development model is distinct from whether a runtime model has been tested on particular hardware.

diff --git a/docs/NOTICES.md b/docs/NOTICES.md
@@ -24,7 +24,7 @@ Third-party notices
 - Python 3 standard library (PSF License); no other Python packages are used
 - Chromium (BSD-3-Clause and others), shows the phone screen
 - cage (MIT), the kiosk session
-- ModemManager (GPL-2.0-or-later), calls and messages
+- ModemManager (GPL-2.0-or-later), packaged for later modem use
 - NetworkManager (GPL-2.0-or-later)
 - polkit (LGPL-2.0-or-later) and D-Bus (AFL-2.1 or GPL-2.0-or-later)
 - OpenRC (BSD-2-Clause) and psmisc (GPL-2.0-or-later)
@@ -48,7 +48,7 @@ Restore the original system
 
 Privacy
 - Old Phone OS Interface sends no telemetry or analytics.
-- The phone screen and setup pages are served only on the phone's own loopback address, not to the network.
+- The phone and setup pages are loopback-only; the public demo server listens on the network.
 - By default the Helper uses its built-in rules and programs on this phone only.
 - Old Phone OS Interface's own code sends nothing off the phone unless you opt in: ticking Search Wikipedia for a question, pointing the Helper at a computer you own on your private network, turning on the paid cloud option with your own key, or choosing coding tools to install during setup.
 - postmarketOS, Chromium and other system software may use the network on their own; that is outside Old Phone OS Interface's control.
